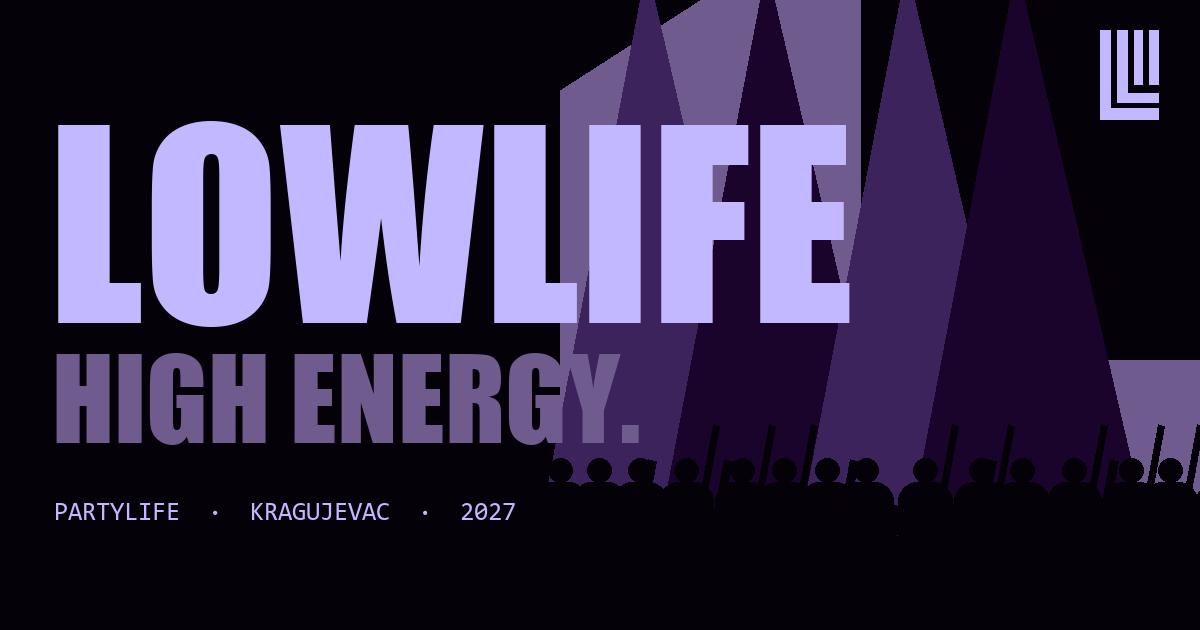
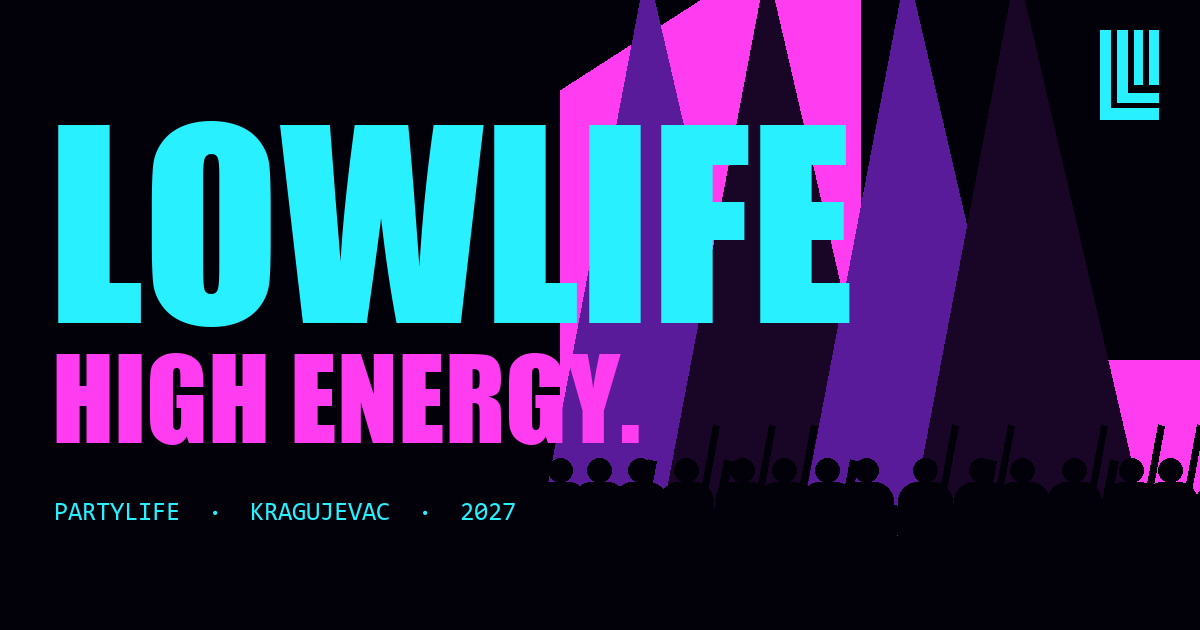
New palette: #020008 #190526 #5a1b9a #ff3cf0 #28f0ff

diff --git a/js/art.js b/js/art.js
@@ -3,10 +3,10 @@
 
 /* Samo tačne boje palete, bez providnosti i gradijenata. */
 const TONES = {
-  orange: { bg: '#705b8f', band: '#3c235c', beam: '#3c235c', beam2: '#1a042b', glow: '#3c235c', ink: '#050109', dots: '#3c235c' },
-  yellow: { bg: '#c2b8ff', band: '#705b8f', beam: '#705b8f', beam2: '#3c235c', glow: '#705b8f', ink: '#050109', dots: '#705b8f' },
-  ink:    { bg: '#1a042b', band: '#050109', beam: '#3c235c', beam2: '#705b8f', glow: '#3c235c', ink: '#050109', dots: '#3c235c' },
-  white:  { bg: '#c2b8ff', band: '#705b8f', beam: '#3c235c', beam2: '#705b8f', glow: '#705b8f', ink: '#050109', dots: '#705b8f' },
+  orange: { bg: '#ff3cf0', band: '#5a1b9a', beam: '#5a1b9a', beam2: '#190526', glow: '#5a1b9a', ink: '#020008', dots: '#5a1b9a' },
+  yellow: { bg: '#28f0ff', band: '#ff3cf0', beam: '#ff3cf0', beam2: '#5a1b9a', glow: '#ff3cf0', ink: '#020008', dots: '#ff3cf0' },
+  ink:    { bg: '#190526', band: '#020008', beam: '#5a1b9a', beam2: '#ff3cf0', glow: '#5a1b9a', ink: '#020008', dots: '#5a1b9a' },
+  white:  { bg: '#28f0ff', band: '#ff3cf0', beam: '#5a1b9a', beam2: '#ff3cf0', glow: '#ff3cf0', ink: '#020008', dots: '#ff3cf0' },
 };
 
 function rng(seed) {
@@ -114,6 +114,6 @@ ${sceneInner(kind, r, c)}
 
 /** Typographic poster used when an artist has no photo. */
 const POSTER = [
-  ['#3c235c', '#c2b8ff', '#705b8f'], ['#c2b8ff', '#050109', '#705b8f'], ['#705b8f', '#050109', '#3c235c'], ['#1a042b', '#c2b8ff', '#3c235c'],
+  ['#5a1b9a', '#28f0ff', '#ff3cf0'], ['#28f0ff', '#020008', '#ff3cf0'], ['#ff3cf0', '#020008', '#5a1b9a'], ['#190526', '#28f0ff', '#5a1b9a'],
 ];
 export function posterColors(i) { return POSTER[i % POSTER.length]; }

diff --git a/css/style.css b/css/style.css
@@ -4,8 +4,8 @@
    okvir slika, urez karte i footer akcenat.
    ========================================================================== */
 :root{
-  /* paleta: #050109 · #1a042b · #3c235c · #705b8f · #c2b8ff */
-  --ink:#050109; --deep:#1a042b; --mid:#3c235c; --mute:#705b8f; --lav:#c2b8ff;
+  /* paleta: #020008 · #190526 · #5a1b9a · #ff3cf0 · #28f0ff */
+  --ink:#020008; --deep:#190526; --mid:#5a1b9a; --mute:#ff3cf0; --lav:#28f0ff;
   --white:var(--lav); --yel:var(--lav); --org:var(--mute); --ink2:var(--deep);
   --display:'Big Shoulders Display','Anton','Impact',sans-serif;
   --sans:'Inter Tight',system-ui,-apple-system,'Segoe UI',sans-serif;
@@ -497,5 +497,10 @@ dialog::backdrop{background:var(--ink)}
 .foot__base .toplink{color:var(--lav)}
 .gal .note{color:var(--lav)}
 .menu__links i{color:var(--lav)}
-.poster::before{content:"";position:absolute;right:0;bottom:0;width:70%;height:46%;background:var(--pa);clip-path:polygon(34% 0,100% 0,100% 100%,0 100%,0 22%)}
+.poster::before{content:"";position:absolute;right:0;bottom:0;width:50%;height:42%;background:var(--pa);clip-path:polygon(34% 0,100% 0,100% 100%,0 100%,0 22%)}
 .poster--photo::before{display:none}
+
+/* statement: linije kao pune ploče, čitljive preko svakog kadra */
+.statement__title .mask>span{background:var(--ink);color:var(--lav);padding:0 .08em}
+.statement__title .mask:last-child>span{background:var(--mute);color:var(--ink)}
+.statement__title .mask:last-child{color:var(--ink)}

diff --git a/index.html b/index.html
@@ -5,7 +5,7 @@
 <meta name="viewport" content="width=device-width, initial-scale=1, viewport-fit=cover">
 <title>LOWLIFE / PARTYLIFE — Festival, Kragujevac · 2027</title>
 <meta name="description" content="LOWLIFE / PARTYLIFE — festival hip-hopa, trapa i alternative iz Kragujevca. Izdanje 2027: datum, lineup i karte uskoro. Pogledaj arhivu izvođača i atmosferu.">
-<meta name="theme-color" content="#050109">
+<meta name="theme-color" content="#020008">
 <script>document.documentElement.classList.add("js")</script>
 <link rel="icon" type="image/svg+xml" href="assets/favicon.svg">
 <link rel="apple-touch-icon" href="assets/apple-touch-icon.png">
@@ -311,7 +311,7 @@
   <video id="vmVideo" controls playsinline preload="none"></video>
 </dialog>
 
-<noscript><p style="padding:20px;background:#c2b8ff;color:#050109;position:relative;z-index:99">Za potpun doživljaj uključi JavaScript. Zvanični kanal: instagram.com/lowlifepartylife</p></noscript>
+<noscript><p style="padding:20px;background:#28f0ff;color:#020008;position:relative;z-index:99">Za potpun doživljaj uključi JavaScript. Zvanični kanal: instagram.com/lowlifepartylife</p></noscript>
 
 <script src="https://cdnjs.cloudflare.com/ajax/libs/gsap/3.12.5/gsap.min.js"></script>
 <script src="https://cdnjs.cloudflare.com/ajax/libs/gsap/3.12.5/ScrollTrigger.min.js"></script>

diff --git a/js/app.js b/js/app.js
@@ -494,7 +494,7 @@ function heroMotion() {
 /* ======================= footer pulse ======================= */
 function footPulse() {
   const foot = $('#footer'), p = $('#footPulse');
-  p.innerHTML = '<svg viewBox="0 0 100 100" preserveAspectRatio="none" width="100%" height="100%"><polygon points="34,0 100,0 100,100 0,100 0,18" fill="none" stroke="#705b8f" stroke-width="3" vector-effect="non-scaling-stroke"/></svg>';
+  p.innerHTML = '<svg viewBox="0 0 100 100" preserveAspectRatio="none" width="100%" height="100%"><polygon points="34,0 100,0 100,100 0,100 0,18" fill="none" stroke="#ff3cf0" stroke-width="3" vector-effect="non-scaling-stroke"/></svg>';
   Object.assign(p.style, { clipPath: 'none', background: 'none' });
   let raf = 0, x = 0;
   const move = (cx) => { x = cx; if (!raf) raf = requestAnimationFrame(() => { raf = 0; const r = foot.getBoundingClientRect(); p.style.setProperty('--px', Math.max(0, Math.min(r.width - p.offsetWidth, x - r.left - p.offsetWidth / 2)) + 'px'); foot.classList.add('is-pulse'); }); };

diff --git a/README.md b/README.md
@@ -22,7 +22,7 @@ Dev flagovi: `?motion=full` (forsira animirani režim), `?motion=reduced` (mirna
 | Aftermovie | `festivalConfig.aftermovie` |
 | Utisci publike | `testimonials[]` (samo odobreni) |
 | Info, FAQ, kanali, partneri | `info[]`, `faq[]`, `socials[]`, `partners[]` |
-| Boje / tipografija | `:root` u `css/style.css` — paleta #050109 · #1a042b · #3c235c · #705b8f · #c2b8ff |
+| Boje / tipografija | `:root` u `css/style.css` — paleta #020008 · #190526 · #5a1b9a · #ff3cf0 · #28f0ff |
 | Logo / favicon | `assets/logo.svg` (vektorizovan iz dostavljenog PNG-a), `assets/favicon.svg`, `apple-touch-icon.png` |
 
 ## Šta je ilustrativno
